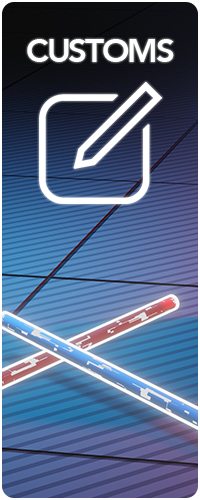
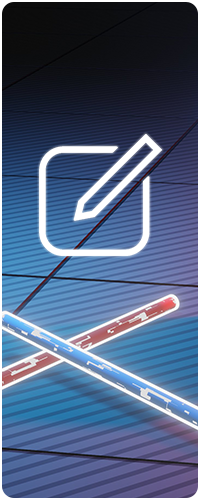
Weighted Rng implementation

Changed region(s): [[0.12, 0.06, 0.87, 0.54]]

diff --git a/src/hooks/DlcPromoPanelModel.cpp b/src/hooks/DlcPromoPanelModel.cpp
@@ -51,11 +51,27 @@ MAKE_AUTO_HOOK_MATCH(DlcPromoPanelModel_GetPackDataForMainMenuPromoBanner, &DlcP
         return self->_defaultPromoInfo;
     }
 
+    int totalWeight = 0;
+
+    for (auto promo : filteredPromos) {
+        totalWeight += promo->weight;
+    }
+
+    Umbrella::Promo* promo;
+
     std::random_device rd;
     std::mt19937 gen(rd());
-    std::uniform_int_distribution<> dis(0, filteredPromos.size() - 1);
+    std::uniform_int_distribution<> dis(0, totalWeight);
+    auto goalWeight = dis(gen);
 
-    auto promo = filteredPromos[dis(gen)];
+    for (auto toFilterPromo : filteredPromos) {
+        UmbrellaLogger.info("Promo: {} Weight: {}", toFilterPromo->promoInfo->id, toFilterPromo->weight);
+        totalWeight -= toFilterPromo->weight;
+        if(totalWeight <= goalWeight) {
+            promo = toFilterPromo;
+            break;
+        }
+    }
 
     if(!promo->promoInfo) {
         UmbrellaLogger.info("Selected Promo is null, returning nullptr");

diff --git a/src/PromoRepo.cpp b/src/PromoRepo.cpp
@@ -20,9 +20,9 @@ void Umbrella::PromoRepo::RegisterPromos(DlcPromoPanelModel* promoModel) {
     promoInfo->id = "custom_levelpack_CustomLevels";
     promoInfo->contentRating = PlayerSensitivityFlag::Safe;
     promoInfo->bannerImage = BSML::Utilities::LoadSpriteRaw(Assets::Customs_Banner_Notepad_png);
-    promoInfo->bannerPromoText = "";
-    promoInfo->bannerPromoTextPosition = -420.69f;
-    auto customLevelsRepo = new Promo("custom_levels", PromoType::CustomLevels, true, promoInfo);
+    promoInfo->bannerPromoText = "<size=150%>Custom Levels";
+    promoInfo->bannerPromoTextPosition = 37.0f;
+    auto customLevelsRepo = new Promo("custom_levels", PromoType::CustomLevels, true, 15, promoInfo);
     RegisterPromo(customLevelsRepo);
 
     ListW<GlobalNamespace::DlcPromoPanelModel::PromoInfo*> promoInfos = ListW<GlobalNamespace::DlcPromoPanelModel::PromoInfo*>::New();

diff --git a/include/PromoRepo.hpp b/include/PromoRepo.hpp
@@ -13,10 +13,11 @@ namespace Umbrella {
     class Promo {
     public:
         Promo() = default;
-        Promo(std::string promoId, PromoType promoType, bool supportedOnQuest, SafePtr<GlobalNamespace::DlcPromoPanelModel::PromoInfo> promoInfo) : promoId(promoId), promoType(promoType), supportedOnQuest(supportedOnQuest), promoInfo(promoInfo) {}
+        Promo(std::string promoId, PromoType promoType, bool supportedOnQuest, int weight, SafePtr<GlobalNamespace::DlcPromoPanelModel::PromoInfo> promoInfo) : promoId(promoId), promoType(promoType), supportedOnQuest(supportedOnQuest), weight(weight), promoInfo(promoInfo) {}
         std::string promoId;
         PromoType promoType;
         bool supportedOnQuest;
+        int weight = 1;
         SafePtr<GlobalNamespace::DlcPromoPanelModel::PromoInfo> promoInfo;
     };
 

diff --git a/src/hooks/MusicPackPromoBanner.cpp b/src/hooks/MusicPackPromoBanner.cpp
@@ -4,6 +4,11 @@
 #include "GlobalNamespace/MusicPackPromoBanner.hpp"
 #include "GlobalNamespace/DlcPromoPanelModel.hpp"
 
+#include "TMPro/TextMeshProUGUI.hpp"
+
+#include "UnityEngine/RectTransform.hpp"
+#include "UnityEngine/GameObject.hpp"
+
 using namespace GlobalNamespace;
 
 MAKE_AUTO_HOOK_MATCH(MusicPackPromoBanner_Setup, &MusicPackPromoBanner::Setup, void, MusicPackPromoBanner* self, DlcPromoPanelModel::PromoInfo* newPromoInfo, bool probablyOwned) {
@@ -12,4 +17,5 @@ MAKE_AUTO_HOOK_MATCH(MusicPackPromoBanner_Setup, &MusicPackPromoBanner::Setup, v
         return;
     }
     MusicPackPromoBanner_Setup(self, newPromoInfo, probablyOwned);
+    self->____promoText->set_richText(true);
 }
